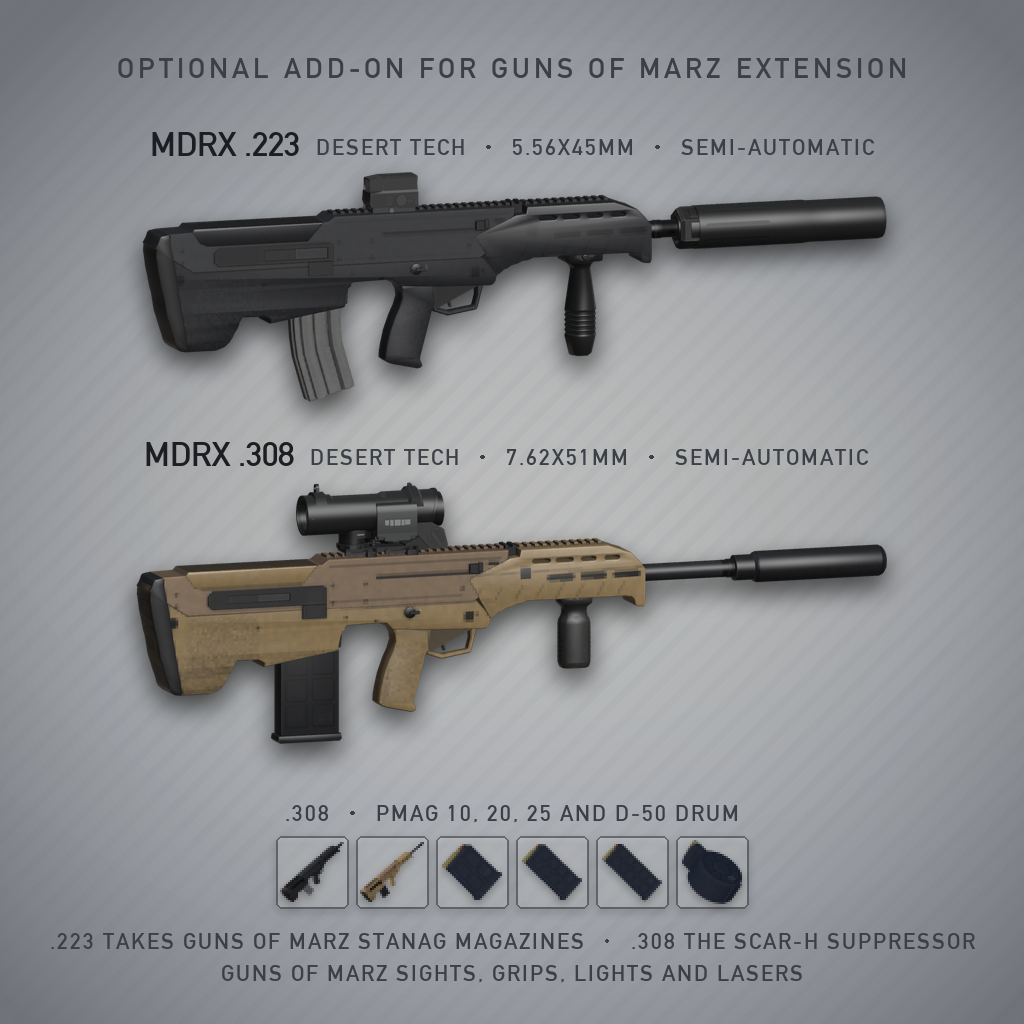
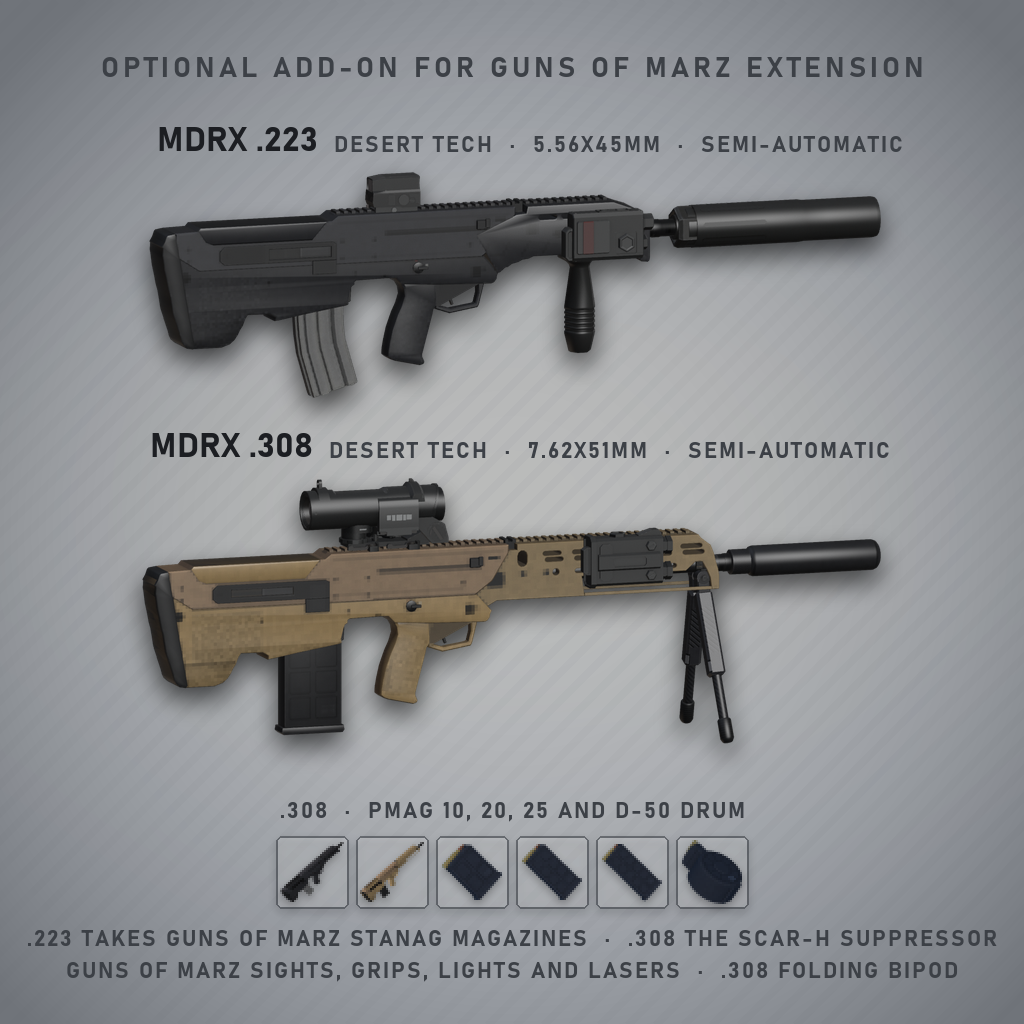
Update preview text and enhance MDRx node definitions in rendering scripts

diff --git a/scripts/render_ad_guns.py b/scripts/render_ad_guns.py
@@ -233,25 +233,31 @@ GUNS = {
     },
     # the MDRx .223 and .308 (preview22): rifles like the SCARs, the same view and scale (the .308 with its 20" barrel
     # and the SOCOM762-RC is about as long as the SCAR-H fitted out); the .223 with GoM's EXPS3, MKC foregrip, AR mount +
-    # MKI and a STANAG 30 (at our size), the .308 with GoM's Elcan and Stub foregrip (no GoM bipod fits it), the SCAR-H's mount + SOCOM762-RC and a PMAG 20
+    # MKI and a STANAG 30 (at our size), the .308 with GoM's Elcan, its ALX legs deployed (their own texture; no
+    # foregrip fits under them), the SCAR-H's mount + SOCOM762-RC and a PMAG 20; both with GoM's right Picatinny rail
+    # (our M-LOK section) and a laser on it, the side this view shows
     "mdr223": {
         "rifle": True, "points": "post93/mdr223_points.json",
         "fbx": "GunsOfTienPost93_MDR223", "tex": "MDR223",
-        "nodes": [("MDR223_BODY", None), ("MDR223_BOLT", None), ("MDR223_HANDLE", None)],
+        "nodes": [("MDR223_BODY", None), ("MDR223_BOLT", None), ("MDR223_HANDLE", None),
+                  ("MDR223_RAIL_RIGHT", "rail_right")],
         "gom_mag": ("magazines/assault_rifles", "556x45Magazine30_STANAG", "magazine"),
         "parts": [],
         "gom": [("scopes", "EXPS3_Sight", "scope"), ("foregrips", "MKC_Foregrip", "foregrip"),
-                ("muzzles", "Muzzle_Mount_Device", "canon"), ("suppressors", "MKI_Suppressor", "canon")],
+                ("muzzles", "Muzzle_Mount_Device", "canon"), ("suppressors", "MKI_Suppressor", "canon"),
+                ("pointers", "LRX-7_Laser", "laser_right")],
         "view": RIFLE_VIEW, "scale": RIFLE_SCALE, "size": RIFLE_SIZE,
     },
     "mdr308": {
         "rifle": True, "points": "post93/mdr308_points.json",
         "fbx": "GunsOfTienPost93_MDR308", "tex": "MDR308",
-        "nodes": [("MDR308_BODY", None), ("MDR308_BOLT", None), ("MDR308_HANDLE", None)],
+        "nodes": [("MDR308_BODY", None), ("MDR308_BOLT", None), ("MDR308_HANDLE", None),
+                  ("MDR308_RAIL_RIGHT", "rail_right"),
+                  ("MDR308_BIPOD_DEPLOYED", "integrated_bipod", "GunsOfTienPost93_MDR308", "MDR308_BIPOD")],
         "mag": ("GunsOfTienPost93_PMAG_magazines", "762x51Magazine20_PMAG", "magazine"),
         "parts": [("GunsOfTienPost93_SCAR_parts", "SCARH_Muzzle_Mount_Device"),
                   ("GunsOfTienPost93_SCAR_parts", "SCARH_Suppressor")],
-        "gom": [("scopes", "ElcanX2_Scope", "scope"), ("foregrips", "Stub_Foregrip", "foregrip")],
+        "gom": [("scopes", "ElcanX2_Scope", "scope"), ("pointers", "AimRight_Laser", "laser_right")],
         "view": RIFLE_VIEW, "scale": RIFLE_SCALE, "size": RIFLE_SIZE,
     },
     # the UMPs (preview7): rifles like the SCARs, the same view, a scale for their length; one body file for both, each

diff --git a/scripts/make_workshop_art.py b/scripts/make_workshop_art.py
@@ -1186,7 +1186,7 @@ def preview22(path, W=1024):
                     post("762x51Magazine25_PMAG"), post("762x51Magazine50_PMAG")],
              256, 400, ".308  ·  PMAG 10, 20, 25 AND D-50 DRUM")
     for n, line in enumerate((".223 TAKES GUNS OF MARZ STANAG MAGAZINES  ·  .308 THE SCAR-H SUPPRESSOR",
-                              "GUNS OF MARZ SIGHTS, GRIPS, LIGHTS AND LASERS")):
+                              "GUNS OF MARZ SIGHTS, GRIPS, LIGHTS AND LASERS  ·  .308 FOLDING BIPOD")):
         page.alpha_composite(text_layer(size, (W // 2, u(464 + n * 16)), line, small, (60, 64, 70, 255),
                                         anchor="ma", spacing=u(1)))
     return save_under(page.convert("RGB"), path)
